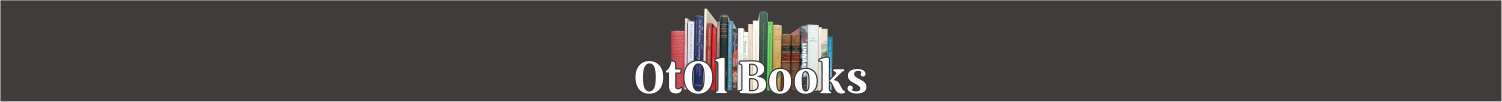
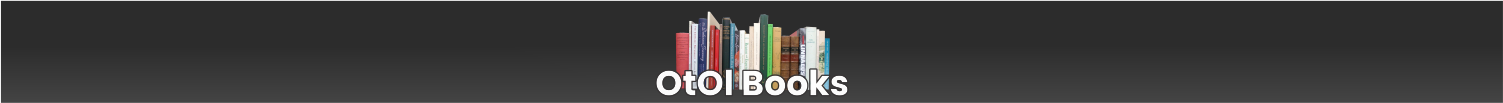
Update

Changed region(s): [[0.3981, 0.0882, 0.5819, 0.9412], [0.0, 0.9706, 1.0, 1.0], [0.0, 0.0, 1.0, 0.0294]]

diff --git a/public/css/style.css b/public/css/style.css
@@ -66,7 +66,7 @@ header {
   }
   
   header nav ul li a:hover {
-    background: rgba(255, 255, 255, 0.15);
+    background: rgba(255, 255, 255, 0.04);
   }
 /* Space */
 .space {
@@ -97,13 +97,13 @@ main {
   transition: all 0.5s ease-out;
   box-shadow: 5px 5px 5px 5px #00000035;
   padding: 1rem;
-  background-color: rgba(61, 55, 55, 0.801);
+  background: linear-gradient(90deg, #232323 0%, #353535 100%);
   text-shadow: 0.1rem 0.1rem #434343;
   color: white;
 }
 
 .card:hover {
-  background: rgba(51, 37, 37, 0.425);
+  background: linear-gradient(90deg, #282828 0%, #454545 100%);
 }
 
 .card img {
@@ -136,7 +136,7 @@ main#register {
 }
 
 .container {
-  background-color: rgba(61, 55, 55, 0.801);
+  background: linear-gradient(90deg, #232323 0%, #353535 100%);
   display: flex;
   justify-content: center;
   margin: 1rem;
@@ -181,14 +181,14 @@ section#form button {
   border: none;
   transition: all 0.5s ease-out;
   cursor: pointer;
-  background-color: rgb(31, 30, 28);
+  background: linear-gradient(90deg, rgb(26,25,23) 0%, rgb(36, 35, 33) 100%);
   color: white;
   font-size: 1rem;
   transition: all 250ms linear 0s;
 }
 
 section#form button:hover {
-  background: rgba(117, 107, 107, 0.466);
+  background: linear-gradient(90deg, rgb(31,30,28) 0%, rgb(41, 40, 38) 100%);
 }
 /* Details */
 main#details {
@@ -200,7 +200,7 @@ main#details {
   justify-content: center;
   flex-direction: row;
   width: 100%;
-  background-color: rgba(61, 55, 55, 0.801);
+  background: linear-gradient(90deg, #232323 0%, #353535 100%);
   box-shadow: 5px 5px 5px 5px #00000035;
 }
 
@@ -264,14 +264,14 @@ a#delete {
   border: none;
   transition: all 0.5s ease-out;
   cursor: pointer;
-  background-color: rgb(31, 30, 28);
+  background: linear-gradient(90deg, rgb(26,25,23) 0%, rgb(36, 35, 33) 100%);
   color: white;
   font-size: 1rem;
   transition: all 250ms linear 0s;
 }
 
 .button a:hover {
-  background: rgba(117, 107, 107, 0.466);
+  background: linear-gradient(90deg, rgb(31,30,28) 0%, rgb(41, 40, 38) 100%);
 }
 
 h3#id-details {
@@ -294,7 +294,7 @@ footer {
   display: flex;
   justify-content: center;
   align-items: center;
-  background-color: rgba(61, 55, 55, 0.801);
+  background: linear-gradient(0deg, #232323 35%, #353535 80%);
   padding: 1rem;
   margin: 0;
   margin-top: auto;
@@ -379,7 +379,7 @@ footer img {
     left: 0;
     width: 100vw;
     height: 100vh;
-    background-color: rgba(61, 55, 55, 0.932);
+    background: linear-gradient(90deg, #232323 0%, #353535 100%);
     z-index: 10;
     display: flex;
     justify-content: center;
@@ -423,7 +423,7 @@ footer img {
 /* Message */
 .message {
   padding: 0.5rem;
-  background-color: rgba(51, 37, 37, 0.425);
+  background: linear-gradient(90deg, #232323 0%, #353535 100%);
   z-index: 100;
   width: 100%;
   display: flex;
@@ -436,6 +436,23 @@ p#text {
   color: white;
   text-shadow: 0.1rem 0.1rem #434343;
 }
+/* messageLogin */
+.messageLogin {
+  padding: 0.5rem;
+  background: linear-gradient(90deg, #232323 0%, #353535 100%);
+  z-index: 100;
+  width: 100%;
+  display: none;
+  align-items: center;
+  justify-content: center;
+}
+p#textLogin {
+  font-size: min(1.1rem, 3vw);
+  font-weight: 600;
+  color: white;
+  text-shadow: 0.1rem 0.1rem #434343;
+}
+
 /* Modal */
 .modal-container {
   width: 100vw;
@@ -459,7 +476,7 @@ p#text {
   justify-content: center;
   align-items: center;
   flex-direction: column;
-  background-color: rgb(61, 55, 55);
+  background: linear-gradient(90deg, #232323 0%, #353535 100%);
   box-shadow: 5px 5px 5px 5px #00000035;
   text-shadow: 0.1rem 0.1rem #434343;
   color: white;
@@ -484,7 +501,7 @@ p#text {
   border: none;
   transition: all 0.5s ease-out;
   cursor: pointer;
-  background-color: rgb(31, 30, 28);
+  background: linear-gradient(90deg, rgb(26,25,23) 0%, rgb(36, 35, 33) 100%);
   color: white;
   font-size: 1rem;
   transition: all 250ms linear 0s;
@@ -492,7 +509,7 @@ p#text {
 }
 
 .yesNo a:hover {
-  background: rgba(117, 107, 107, 0.466);
+  background: linear-gradient(90deg, rgb(31,30,28) 0%, rgb(41, 40, 38) 100%);
 }
 
 .modal h2 {
@@ -532,4 +549,51 @@ p#text {
 
 .close:hover {
   background: rgb(238, 64, 64);
+}
+/* Tela de Login */
+.login {
+  height: 100vh;
+  display: flex;
+  justify-content: center;
+  flex-direction: column;
+  align-items: center;
+}
+
+.boxLogin form {
+  width: 15rem;
+  height: 20rem;
+  background: rgba(61, 55, 55, 0.801);
+  box-shadow: 5px 5px 5px 5px #00000035;
+  display: flex;
+  justify-content: center;
+  flex-direction: column;
+  align-items: center;
+  gap: 1rem;
+  text-shadow: 0.1rem 0.1rem rgb(31, 30, 28);
+  color: white;
+}
+
+input#user,
+input#pass {
+  padding: 0.6rem;
+  border: none;
+  outline: none;
+}
+
+a#btn {
+  display: flex;
+  padding: 0.6rem 1.5rem;
+  margin: 0 auto;
+  border: none;
+  transition: all 0.5s ease-out;
+  cursor: pointer;
+  background-color: rgb(31, 30, 28);
+  color: white;
+  font-size: 1rem;
+  transition: all 250ms linear 0s;
+  text-decoration: none;
+}
+
+a#btn:hover {
+  background: rgba(117, 107, 107, 0.466);
 }

diff --git a/public/js/script.js b/public/js/script.js
@@ -1,5 +1,4 @@
 let imported = document.createElement('script');
-imported.src = 'showModal.js';
 document.head.appendChild(imported);
 
 let show = true;
